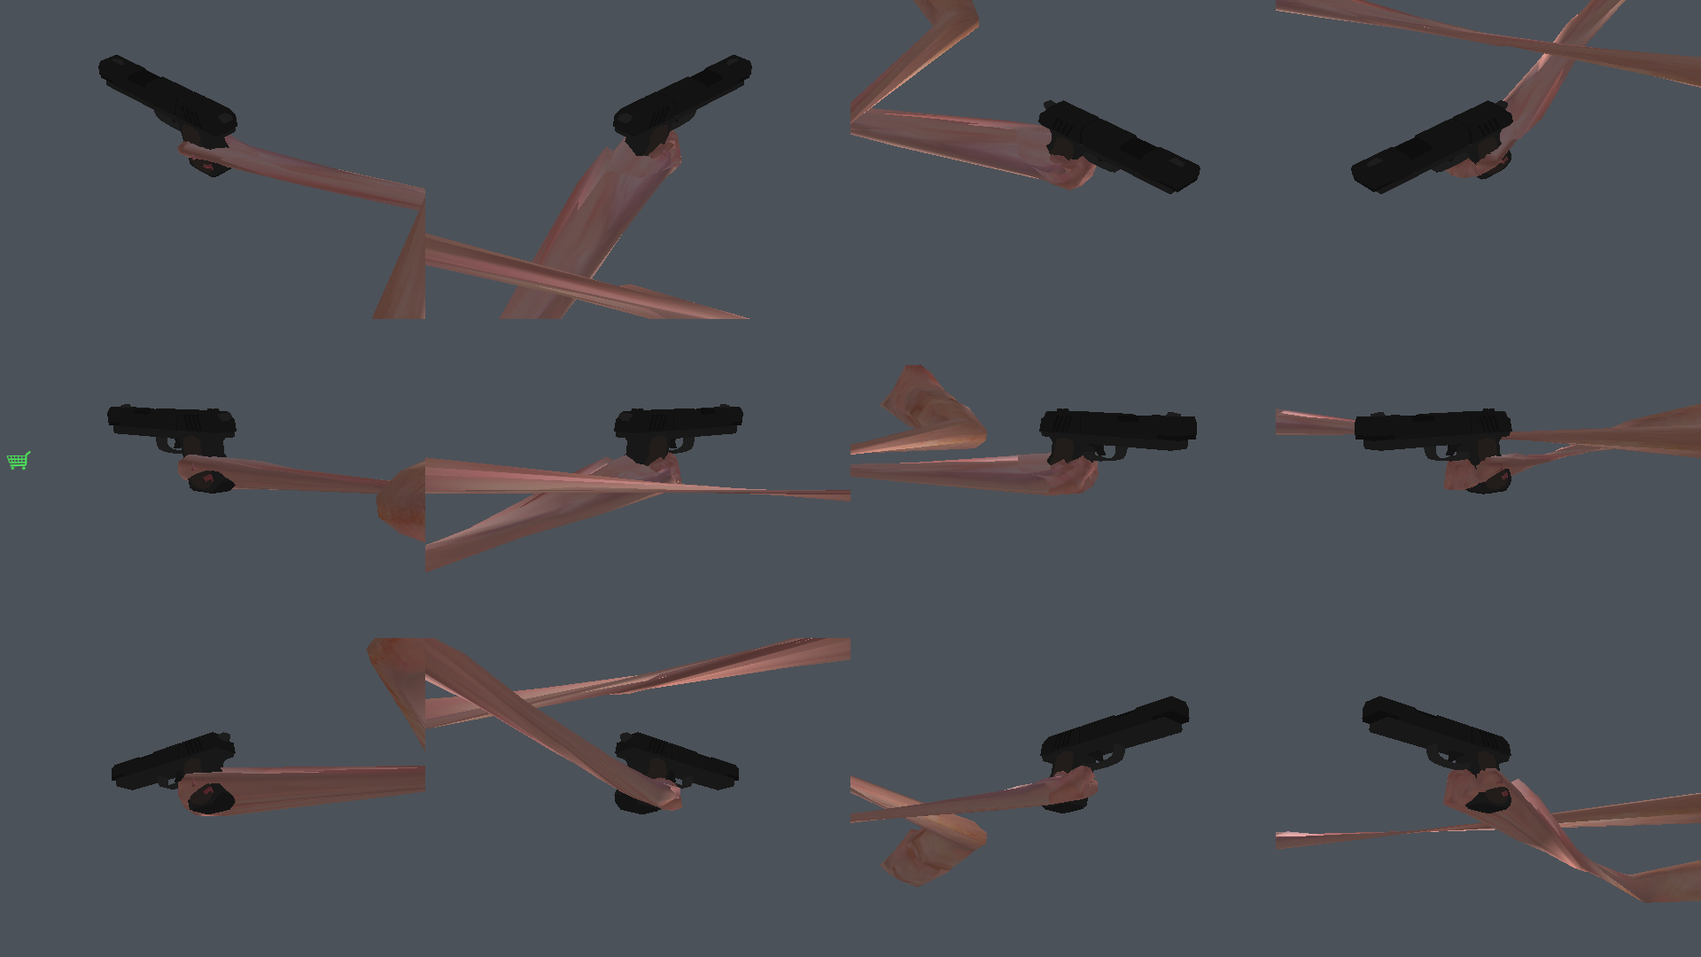
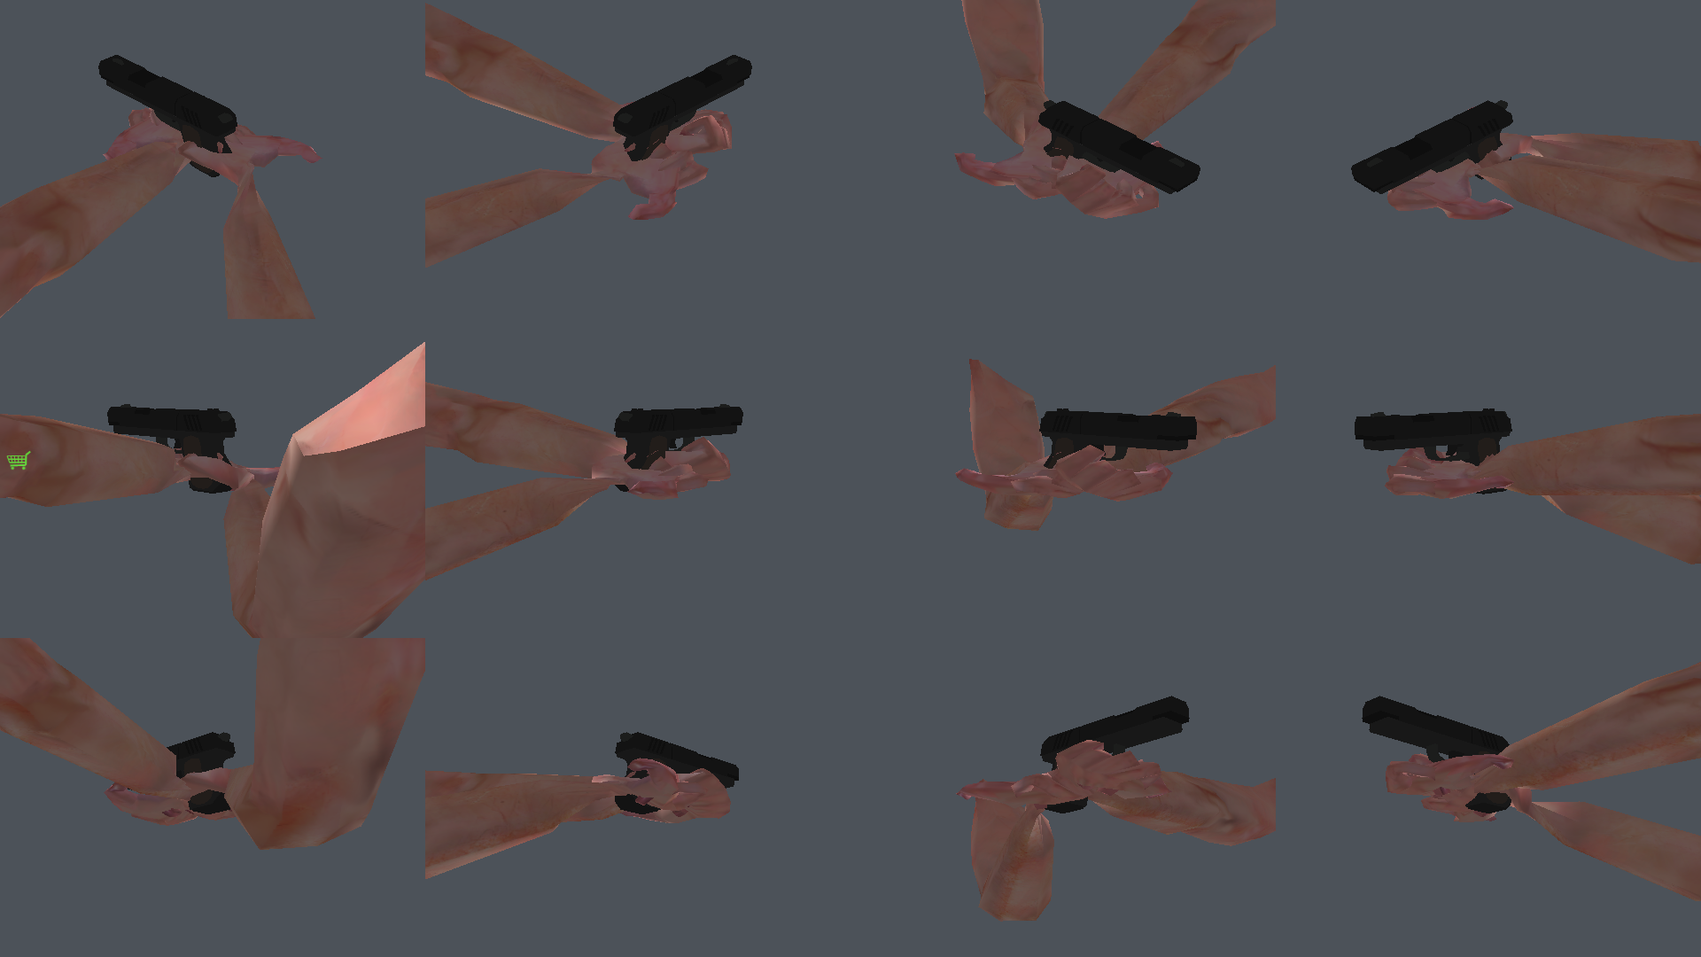
vr_hands: put the wrist bone in the right space (forearm no longer stretched)
Reported from the headset: "the shoulder and the start of the arm are great,
but at the forearm it got stretched and gigantic, so the hand ended up way out
there."

The SKELETON was correct — every bone kept its rest length and every fit number
was right. The MESH was landing ~26 u (66 cm) past the wrist, because two values
in the hand chain were ABSOLUTE rig coordinates where displacements were
expected. Same mistake, twice:

- the wrist's world matrix was `inv(forearm) . P_hand . rest_world[wrist]`, with
  the rest matrix' translation included. Rig rest positions are absolute body
  coordinates (the wrist sits ~6 u from the rig origin) and the skin is
  `cur_world . ibm`, so that translation does NOT cancel. Fixed by using the
  ROTATION ONLY of the rest matrix, which makes the wrist skin exactly
  `T(wrist) . S(s) . Rw . T(-p_rest)`: rotate the hand about its own wrist, and
  put the wrist where the IK put it.
- `palm_ctr` was stored as an absolute rig point (`wrist + fwd*0.55d`) but feeds
  the hand frame, whose ORIGIN is the wrist — so the ~6 u were added again, this
  time to the weapon, which floated ~27 u away from the hand. Now stored
  relative to the wrist.

What made this findable was refusing to judge by eye. The report now prints, for
every sheet:
  mao:   skinned wrist vs IK target, and mesh palm centre vs hand frame (0.00)
  braco: target vs reach and elbow bend (separates "arm at full stretch because
         the target is far" from "the chain is wrong")
[…]

diff --git a/mods/vr/vr_hands.cpp b/mods/vr/vr_hands.cpp
@@ -595,7 +595,8 @@ static void cfg_defaults( void )
 	cfg.recoil_deg = 7.0f; cfg.recoil_kick = 0.9f; cfg.recoil_interval = 0.09f;
 	cfg.enforce_armed = true;   // com a arma no coldre/chao, o gatilho nao atira
 	cfg.synth_grip = 1.0f;
-	cfg.synth_dist = 24.0f; cfg.synth_side = 5.5f; cfg.synth_down = 9.0f;
+	cfg.synth_dist = 16.0f;      // dentro do alcance (~22 un): alvo fora do alcance deixa o braco reto
+	cfg.synth_side = 5.5f; cfg.synth_down = 9.0f;
 	cfg.near_clip = 4.0f;        // igual ao ref (gl_rmain.c: zNear = 4.0f)
 	cfg.far_clip = 7086.0f;      // ~ movevars.zmax * 1.73 (idem)
 	cfg.color_gamma = 2.2f;
@@ -817,7 +818,12 @@ static void palm_from_rest( hmesh_t *m )
 		{
 			m->palm_fwd[h][c] = fwd[c];
 			m->palm_up[h][c]  = -nrm[c];                     // costas da mao
-			m->palm_ctr[h][c] = wrist[c] + fwd[c] * ( 0.55f * d );
+			// CENTRO DA PALMA **relativo ao punho**. Guardar a posicao ABSOLUTA do rig
+			// (`wrist + fwd*0.55d`, ~6 un. do centro do corpo) parecia inofensivo, mas o
+			// referencial da mao tem ORIGEM no punho: com um ponto absoluto ali, a arma
+			// ganhava ~27 un. de deslocamento e saia da mao. Mesma familia do bug do
+			// rest_world na munheca — coordenada absoluta onde se esperava deslocamento.
+			m->palm_ctr[h][c] = fwd[c] * ( 0.55f * d );
 		}
 		v3_cross( m->palm_left[h], m->palm_up[h], m->palm_fwd[h] );
 		m->palm_off[h] = 0.55f * d;
@@ -1273,6 +1279,12 @@ typedef struct
 	float grip_world[3];       // ponto de empunhadura no mundo (diagnostico)
 	float aim[3];
 	float fit_dist;
+	float wrist_ik[2][3];      // onde o IK pos o punho (unidades GoldSrc, mundo)
+	float wrist_slip[2];       // distancia da malha do punho ate o alvo do IK (0 = certo)
+	float palm_slip[2];        // distancia do centro da palma da MALHA ate o referencial (0 = arma na mao)
+	float arm_target[2];       // distancia ombro->alvo, CRUA (antes do clamp)
+	float arm_reach[2];        // alcance da cadeia (biceps+antebraco) no repouso
+	float elbow_deg[2];        // quanto o cotovelo dobra: 0 = esticado, 90+ = dobrado
 	float focus[3];            // onde a folha de contato deve enquadrar
 } hscene_t;
 
@@ -1434,6 +1446,27 @@ static void weapon_step( const vr_hands_body_t *body, const vr_hands_in_t *in,
 }
 
 // ------------------------------------------------------------ frames -------
+// Pose da mao SINTETICA (diagnostico sem headset). Existe uma SO copia de proposito:
+// o `frame_build` (desenho) e o `vr_hands_update` (estado/mira) precisam da MESMA pose,
+// senao a folha de contato passa a mostrar uma coisa e a mira a apontar para outra.
+//
+// As duas maos ficam DENTRO do alcance do braco (~22 un). Alvo fora do alcance obriga a
+// cadeia a ficar reta, e braco reto visto de perto parece "esticado" na folha: o defeito
+// seria do alvo, nao da IK (o relato `braco:` imprime alvo/alcance/cotovelo para separar
+// os dois casos). A mao esquerda sai menos para o lado porque o ombro esquerdo ja esta a
+// ~8 un dali — com o mesmo deslocamento da direita ela cairia fora do alcance.
+static void synth_hand_fill( const vr_hands_body_t *body, vr_hands_hand_t *H, int h )
+{
+	const float fw = cfg.synth_dist, sd = ( h == 1 ? cfg.synth_side : cfg.synth_side * 0.40f );
+	const float dn = cfg.synth_down;
+	for( int c = 0; c < 3; c++ )
+		H->pos[c] = body->pos[c] + body->fwd[c]*fw + body->rgt[c]*sd - body->up[c]*dn;
+	memcpy( H->fwd, body->fwd, sizeof( H->fwd ));
+	memcpy( H->rgt, body->rgt, sizeof( H->rgt ));
+	memcpy( H->up,  body->up,  sizeof( H->up  ));
+	H->ok = true;
+}
+
 // Constroi a cena: rig ancorado no corpo, IK dos dois bracos, referencia da mao,
 // arma (na mao/coldre/chao), dedos e skin. `force_state` < 0 = usa o estado real
 // (a folha de contato passa valores fixos); `force_grip` < 0 = usa o grip de entrada.
@@ -1448,17 +1481,7 @@ static void frame_build( hscene_t *s, const vr_hands_body_t *body, const vr_hand
 	{
 		bool real = hands && hands[h].ok && !cfg.synth_hands;
 		if( real ) H[h] = hands[h];
-		else
-		{
-			// duas maos a frente do corpo: prova a IK e o encaixe SEM headset
-			const float fw = cfg.synth_dist, sd = ( h == 1 ? cfg.synth_side : cfg.synth_side * 0.27f ), dn = cfg.synth_down;
-			for( int c = 0; c < 3; c++ )
-				H[h].pos[c] = body->pos[c] + body->fwd[c]*fw + body->rgt[c]*sd - body->up[c]*dn;
-			memcpy( H[h].fwd, body->fwd, sizeof( H[h].fwd ));
-			memcpy( H[h].rgt, body->rgt, sizeof( H[h].rgt ));
-			memcpy( H[h].up,  body->up,  sizeof( H[h].up  ));
-			H[h].ok = true;
-		}
+		else synth_hand_fill( body, &H[h], h );
 		s->hands_ok[h] = H[h].ok;
 	}
 
@@ -1549,6 +1572,8 @@ static void frame_build( hscene_t *s, const vr_hands_body_t *body, const vr_hand
 
 	// ---- 5) IK: a mao de tras primeiro — a de apoio pode mirar a ARMA ----
 	float support_target[3] = { 0.0f, 0.0f, 0.0f };
+	bool ik_ok[2] = { false, false };
+	s->wrist_slip[0] = s->wrist_slip[1] = -1.0f;   // -1 = a IK nao resolveu esta mao
 	for( int pass = 0; pass < 2; pass++ )
 	{
 		int h = pass ? 1 - rear : rear;
@@ -1571,6 +1596,10 @@ static void frame_build( hscene_t *s, const vr_hands_body_t *body, const vr_hand
 		float dist = sqrtf( v3_dot( d, d ));
 		if( dist < 1e-4f ) continue;
 		float n[3] = { d[0]/dist, d[1]/dist, d[2]/dist };
+		// diagnostico: o alvo esta ao alcance? (dist > reach = braco necessariamente
+		// esticado, e ai a culpa e do alvo, nao da cadeia)
+		s->arm_target[h] = dist;
+		s->arm_reach[h] = L1 + L2;
 		float dmax = ( L1 + L2 )*0.999f, dmin = fabsf( L1 - L2 )*1.05f + 1e-3f;
 		if( dist > dmax ) dist = dmax;
 		if( dist < dmin ) dist = dmin;
@@ -1613,6 +1642,13 @@ static void frame_build( hscene_t *s, const vr_hands_body_t *body, const vr_hand
 		float rf[3] = { Ww2[12]-e2[0], Ww2[13]-e2[1], Ww2[14]-e2[2] };
 		float nf[3] = { target[0]-e2[0], target[1]-e2[1], target[2]-e2[2] };
 		v3_norm( rf ); v3_norm( nf );
+		{
+			// angulo do cotovelo: entre o braco (nu) e o antebraco (nf). 0 = esticado
+			float dot2 = v3_dot( nu, nf );
+			if( dot2 > 1.0f ) dot2 = 1.0f;
+			if( dot2 < -1.0f ) dot2 = -1.0f;
+			s->elbow_deg[h] = acosf( dot2 ) * 180.0f / ( float )M_PI;
+		}
 		m4 R2, Wf3;
 		rot_between( R2, rf, nf );
 		translate_matrix( Tp, e2 );
@@ -1632,11 +1668,27 @@ static void frame_build( hscene_t *s, const vr_hands_body_t *body, const vr_hand
 		cur_world( &g_arms, cur, jw, Wwk );
 		float wr[3] = { Wwk[12], Wwk[13], Wwk[14] };
 
-		m4 Ph, ip;
+		// A mao e o UNICO osso cujo mundo e escrito por fora da cadeia (o IK posiciona
+		// o antebraco; o controle decide a rotacao da mao). O mundo que se quer e
+		//   P_mao . R(repouso do punho)  -- a rotacao do repouso SEM a translacao
+		// e nao `P_mao . rest_world[jw]`. A translacao do repouso e a POSICAO do punho
+		// dentro do espaco do rig (~6 unidades, o rig e um corpo inteiro), e como o skin
+		// e `cur_world . ibm` ela NAO cancela: entrava como `wr + s.Rw.p_repouso`, jogando
+		// a malha da mao ~26 u (66 cm) para longe do punho. O skin esticava entre o
+		// antebraco (correto) e a mao (deslocada): "antebraco gigante, mao la longe".
+		// Sem ela, o skin do punho fica exatamente T(wr).S(s).Rw.T(-p_repouso) — roda a
+		// mao em torno do proprio punho e poe o punho onde o IK o pos.
+		m4 Ph, Rho, ip;
 		m4_place( Ph, Rw[h], wr, cfg.scale_arms );
+		memcpy( Rho, g_arms.rest_world[jw], sizeof( m4 ));
+		Rho[12] = Rho[13] = Rho[14] = 0.0f;
 		m4_inv( ip, Wf3 );
 		m4_mul( t1, ip, Ph );
-		m4_mul( cur[jw], t1, g_arms.rest_world[jw] );
+		m4_mul( cur[jw], t1, Rho );
+
+		// onde o IK pos o punho: e contra isto que a malha e conferida no passo 9
+		memcpy( s->wrist_ik[h], wr, sizeof( wr ));
+		ik_ok[h] = true;
 
 		// referencia da mao (para a arma e para a folha): centro da palma
 		float ctr[3];
@@ -1745,6 +1797,32 @@ static void frame_build( hscene_t *s, const vr_hands_body_t *body, const vr_hand
 		m4 w;
 		cur_world( &g_arms, cur, i, w );
 		m4_mul( skin[i], w, g_arms.joint[i].ibm );
+	}
+
+	// METRICA DE ACEITE da cadeia da mao: pega o ponto de REPOUSO do punho, passa pelo
+	// skin e confere se ele caiu onde a IK pos o punho. O skin do punho e
+	// T(punho).S(s).Rw.T(-repouso), entao o ponto de repouso tem de voltar exatamente
+	// em `wrist_ik` — o numero TEM de ser 0.00. Nao e decoracao: foi assim que o bug da
+	// translacao do repouso (malha da mao 26 u longe, antebraco esticado) apareceu.
+	for( int h = 0; h < 2; h++ )
+	{
+		const int jw = g_arms.j_wrist[h];
+		s->palm_slip[h] = -1.0f;
+		if( !ik_ok[h] || jw < 0 ) continue;
+		float p[3] = { g_arms.rest_world[jw][12], g_arms.rest_world[jw][13],
+			g_arms.rest_world[jw][14] }, q[3];
+		m4_xform_point( skin[jw], p, q );
+		float d[3] = { q[0]-s->wrist_ik[h][0], q[1]-s->wrist_ik[h][1], q[2]-s->wrist_ik[h][2] };
+		s->wrist_slip[h] = sqrtf( v3_dot( d, d ));
+
+		// e o CENTRO DA PALMA da malha tem de cair onde esta o referencial da mao (que e
+		// onde a arma ancora a empunhadura). O ponto absoluto do centro da palma no rig e
+		// `palm_ctr` (relativo ao punho) + a posicao de repouso do punho.
+		float pa[3] = { g_arms.palm_ctr[h][0] + p[0], g_arms.palm_ctr[h][1] + p[1],
+			g_arms.palm_ctr[h][2] + p[2] };
+		m4_xform_point( skin[jw], pa, q );
+		float e[3] = { q[0]-s->palm_pos[h][0], q[1]-s->palm_pos[h][1], q[2]-s->palm_pos[h][2] };
+		s->palm_slip[h] = sqrtf( v3_dot( e, e ));
 	}
 
 	free( s->cur ); free( s->skin );
@@ -1892,16 +1970,7 @@ void vr_hands_update( const vr_hands_body_t *body, const vr_hands_in_t *in,
 			H[h] = hands[h];
 			if( cfg.synth_hands ) H[h].ok = false;
 		}
-		else
-		{
-			const float fw = cfg.synth_dist, sd = ( h == 1 ? cfg.synth_side : cfg.synth_side * 0.27f ), dn = cfg.synth_down;
-			for( int c = 0; c < 3; c++ )
-				H[h].pos[c] = body->pos[c] + body->fwd[c]*fw + body->rgt[c]*sd - body->up[c]*dn;
-			memcpy( H[h].fwd, body->fwd, sizeof( H[h].fwd ));
-			memcpy( H[h].rgt, body->rgt, sizeof( H[h].rgt ));
-			memcpy( H[h].up,  body->up,  sizeof( H[h].up  ));
-			H[h].ok = true;
-		}
+		else synth_hand_fill( body, &H[h], h );
 	}
 
 	// estado da arma (na mao / coldre / chao) e so DEPOIS a pose: a maquina usa as
@@ -2304,6 +2373,15 @@ void vr_hands_sheet( const vr_hands_cam_t *cam )
 				( double )( acosf( dot ) * 180.0f / ( float )M_PI ),
 				( double )one.fit_dist, ( double )( g_weapon.len[0] * g_weapon_scale ),
 				( double )( g_weapon.len[0] * g_weapon_scale * 2.54f ));
+			// aceite da cadeia da mao: a malha tem de cair ONDE a matematica a pos
+			vlog( "maos: mao: punho desliza %.2f/%.2f un | centro da palma %.2f/%.2f un (esq/dir) — 0.00 = malha e referenciais concordam\n",
+				( double )one.wrist_slip[0], ( double )one.wrist_slip[1],
+				( double )one.palm_slip[0], ( double )one.palm_slip[1] );
+			// o alvo esta ao alcance? (cotovelo 0 = esticado; culpa do alvo, nao da cadeia)
+			vlog( "maos: braco: alvo a %.1f/%.1f un do ombro | alcance %.1f/%.1f un | cotovelo dobrado %.0f/%.0f graus (0 = esticado)\n",
+				( double )one.arm_target[0], ( double )one.arm_target[1],
+				( double )one.arm_reach[0], ( double )one.arm_reach[1],
+				( double )one.elbow_deg[0], ( double )one.elbow_deg[1] );
 			scene_free( &one );
 		}
 

diff --git a/docs/HANDS.md b/docs/HANDS.md
@@ -180,7 +180,7 @@ you can adjust fit, scale, axes and the contact sheet without restarting the gam
 | `recoil_deg` / `recoil_kick` / `recoil_interval` | 7 / 0.9 / 0.09 | visual recoil |
 | `enforce_armed` | 1 | outside the hand, the trigger does not fire |
 | `sheet` | 0 | contact sheet (see below) |
-| `synth_hands` / `synth_grip` / `synth_dist` / `synth_side` / `synth_down` | 0 / 1 / 24 / 5.5 / 9 | diagnostic synthetic hands |
+| `synth_hands` / `synth_grip` / `synth_dist` / `synth_side` / `synth_down` | 0 / 1 / 16 / 5.5 / 9 | diagnostic synthetic hands (16 u keeps the target inside the ~22 u reach) |
 | `near` / `far` / `color_gamma` | 4 / 7086 / 2.2 | match the ref; the MTL's `Kd` is linear |
 
 ## Diagnosis without a headset: the contact sheets
@@ -218,20 +218,28 @@ document.</em></p>
 (bottom). The closing direction is derived, not authored — it comes out correct for both hands and for
 the thumb because the axis is computed from the rig's own rest pose.</em></p>
 
-**Honest caveat about the sheets that show the arms.** In test mode there are no controllers: the
-hands sit at the synthetic positions from the cfg (`synth_dist/side/down`), so the **arms are
-stretched and look wrong** in the `fit`, `states` and `walk` sheets. That is an artifact of the
-fixture, not of the arms — with controllers in hand the IK targets are where your hands actually
-are. Use those sheets for the weapon's fit, size and position; do not judge the arms by them.
+**About the arms in the sheets.** In test mode there are no controllers: the hands sit at the
+synthetic positions from the cfg (`synth_dist/side/down`). Two consequences worth knowing before
+you judge an image:
+
+- the **support (left) hand** is placed across the body, the way a real two-handed grip is, so its
+  arm is close to full extension — and a nearly straight arm, seen from a camera sitting on the
+  hand, reads as a wide foreshortened shape. The `braco:` line reports the numbers (`alvo` vs
+  `alcance`, and the elbow bend), so you can tell "the arm is at full stretch because the target is
+  far" from "the chain is wrong";
+- the fixture values are deliberately chosen **inside** the arm's reach (~22 u). An out-of-reach
+  target forces the arm straight and makes the sheets useless for judging the pose.
+
+They are the right tool for the weapon's fit, size and position — that is what they exist for.
 
 <p align="center">
-  <img src="img/contact-sheet-fit.png" alt="Raw fit sheet: twelve views of the right hand holding the pistol, with the arm geometry stretched toward the synthetic hand position" width="80%">
+  <img src="img/contact-sheet-fit.png" alt="Raw fit sheet: twelve views of the right hand holding the pistol, the support arm extended and foreshortened" width="80%">
 </p>
 
 <p align="center"><em>The raw <code>fit</code> sheet, unedited, so the caveat above is not a claim you
-have to take on faith: the weapon is correctly sized and seated in the hand in all twelve views, while
-the arm geometry running off to the lower left is the synthetic target stretching the IK. This is what
-a regenerated sheet will look like without a headset attached.</em></p>
+have to take on faith. This is exactly what a regenerated sheet looks like with no headset attached:
+the firing hand grips the pistol in all twelve views, and the support arm crosses the frame at full
+extension, as it does in a real two-handed grip.</em></p>
 
 The same drawing prints a **numeric report** in the log — it is what allows deciding without
 looking at the image:
@@ -279,7 +287,16 @@ without an equipped weapon), `VR_AIM_FROM_WEAPON=0`, `VR_BODY_YAW_LAG=0.25`,
 | Fingers | `curl` sheet | close toward the palm, at all 4 levels, **in both hands** |
 | Holster | report + `states` sheet | barrel at **−0.94** from the body vertical (muzzle down) |
 | States | `walk` sheet + log | **8/8** steps: grab (left), 2 hands, release the rear one, store, draw (right) |
+| Mesh follows the pose | report: `mao:` line | wrist mesh vs IK target **0.00/0.00 u**; mesh palm centre vs hand frame **0.00/0.00 u** (see note 11) |
+| Arm is not over-extended | report: `braco:` line | target 23.4/16.9 u against a reach of 21.9 u → support arm extended, firing arm bent 79° |
 | Flat did not regress | game without `VR_HANDS_TEST` | no line from the subsystem in the log; mod loads normally |
+
+The last two rows exist because of a bug that images alone did not pin down: the **wrist bone's
+world matrix** was being built with the *rest position* of the wrist baked into it, which threw the
+hand mesh ~26 u (66 cm) away from where the IK had put the wrist. The bones kept their lengths, so
+no bone-length check would have caught it — only comparing **where the skinned mesh lands** against
+**where the math says it should** does. Those two numbers are now printed on every report and must
+read `0.00`; they are the regression test for the whole class.
 
 ### Still to validate with the headset (your side)
 
@@ -337,3 +354,25 @@ without an equipped weapon), `VR_AIM_FROM_WEAPON=0`, `VR_BODY_YAW_LAG=0.25`,
    replaced by an explicit sheet mode).
 10. **In test mode the `update` did not run**: it was only inside the `VR_FramePre` session
     block, which does not exist without a headset. The contact sheet stayed blank.
+11. **The hand bone's world matrix carried the wrist's REST POSITION.** The wrist is the only
+    bone whose world is written from outside the chain (the IK places the forearm; the
+    controller decides the hand's rotation), and it was computed as
+    `inv(forearm) . P_hand . rest_world[wrist]` — with the *whole* rest matrix, translation
+    included. The rig's rest positions are absolute body coordinates (the wrist sits ~6 units
+    from the rig origin), and the skin is `cur_world . ibm`, so that translation does **not**
+    cancel: it landed the hand mesh at `wrist + 4.2 . Rw . p_rest`, roughly **26 u (66 cm) past
+    the wrist**. The bones still had their correct lengths, so the skeleton looked fine while
+    the skin stretched from the (correct) forearm to the (displaced) hand — reported from the
+    headset as *"the shoulder and upper arm are great, the forearm is stretched and gigantic,
+    and the hand is way out there"*. The fix is to use only the **rotation** of the rest matrix
+    (`rest_world[wrist]` with its translation zeroed), which makes the skin exactly
+    `T(wrist) . S(s) . Rw . T(-p_rest)`: rotate the hand about its own wrist and put the wrist
+    where the IK put it. Two numbers now guard it — see the `mao:` report line.
+12. **The palm centre was stored as an ABSOLUTE rig coordinate.** Same family as 11, one level
+    up: `palm_ctr` was `wrist + fwd * 0.55 d` in rig space, and the hand frame it feeds
+    (`P_hand`, whose origin is the *wrist*) then added those ~6 units again — this time to the
+    **weapon**, which is mounted on that frame. The pistol left the hand and floated ~27 u
+    away, while the hand (fixed by 11) sat correctly on the wrist. It is now stored **relative
+    to the wrist**, which is what the hand frame expects. Both errors were the same mistake:
+    an absolute coordinate where a displacement was expected, in a frame whose origin is not
+    the rig origin.

diff --git a/PLAN.md b/PLAN.md
@@ -296,6 +296,37 @@ Conventions:
     fit and the `walk` script proved **8/8** state-machine transitions without a headset.
   - Doc: `docs/HANDS.md` (includes the 9 bug notes and what is missing on the headset).
   - *Still needs the headset* (your end): the 7 checks listed in `docs/HANDS.md`.
+- [x] 🔴 **6.7b-fix The arm was posed right and the MESH was not (13/10, from the owner's headset
+  report)** — *"the shoulder and the start of the arm are great, but at the forearm it got
+  stretched and gigantic, so the hand ended up way out there."* The forearm mesh was stretched ~26
+  un past the wrist, and **no bone had the wrong length**: the skeleton was correct, the numbers
+  for the fit were correct, and the contact sheets still "looked like an arm" if you did not know
+  what to look for. Two instances of the same mistake, both in the hand chain:
+  - the **wrist bone's world matrix** was built as `inv(forearm) . P_hand . rest_world[wrist]`,
+    with the rest matrix' **translation** included. Rig rest positions are absolute body
+    coordinates (the wrist is ~6 un from the rig origin) and the skin is `cur_world . ibm`, so the
+    translation does **not** cancel: the hand mesh landed at `wrist + scale . Rw . p_rest`. Fix:
+    use the **rotation only** of the rest matrix (translation zeroed), which makes the skin exactly
+    `T(wrist) . S(s) . Rw . T(-p_rest)` — rotate the hand about its own wrist and put the wrist
+    where the IK put it;
+  - the **palm centre was stored as an absolute rig coordinate** (`wrist + fwd*0.55d`), and the hand
+    frame it feeds has its **origin at the wrist**; the ~6 units were added again, this time to the
+    **weapon**, which is mounted on that frame — the pistol left the hand and floated ~27 un away.
+    Fix: store it **relative to the wrist**.
+  - **What made this findable** was refusing to judge by eye: the report now prints, on every
+    sheet, the distance between **where the skinned mesh lands** and **where the math says it
+    should** — `mao: wrist slip 0.00/0.00 un | palm centre 0.00/0.00 un` — plus `braco: target vs
+    reach and elbow bend`, which separates "the arm is at full stretch because the target is far"
+    from "the chain is wrong". Both must read `0.00`; they are the regression test for the class
+    (mesh-in-the-wrong-place with a healthy skeleton), which no bone-length check would catch.
+  - Also fixed: the **synthetic-hand fixture had two copies** (the drawing path and the state path),
+    so they could disagree; now there is one `synth_hand_fill()`. And the fixture placed the support
+    hand **outside the arm's reach**, forcing a straight arm that looks "stretched" in the sheets;
+    `synth_dist` is now 16 un (reach is ~22), i.e. inside it.
+  - Verified: `mao:` and `braco:` at `0.00`, `encaixe` unchanged (barrel 0.0°, grip 0.00 un, 7.48 un
+    = 19.0 cm), `walk` still **8/8**, flat mode untouched, build warning count unchanged. The
+    contact sheets were re-rendered: the arms are now geometry of normal thickness with a bent
+    elbow, and the hand grips the pistol.
 - [ ] 🟢 **6.7c Registered debt (out of this stage)**: **gesture-based reload/grenade pin**,
   wrist roll on the weapon (forearm twist), haptics, sound, buy menu in VR, dropped weapon
   collision and the **remaining weapon classes** (rifle/SMG etc., which stay on the game viewmodel).

diff --git a/README.md b/README.md
@@ -29,9 +29,9 @@ your controllers, with the whole interaction model modern VR games use.
 </p>
 
 <p align="center"><em>Left: the weapon fit, from the Mod's own diagnostic mode — the red/green/blue
-cross is the grip anchor, the white line runs grip&rarr;muzzle. Right: the hand closing, open to
-fist, on the weapon and empty. Both images were rendered by the game through its normal drawing
-path, with no headset attached.</em></p>
+cross is the grip anchor, the white line runs grip&rarr;muzzle. Right: the same hand at four grip
+levels — 0, &#8531;, &#8532;, 1 — closing toward the palm; the two rows are the two hands. Both images
+were rendered by the game through its normal drawing path, with no headset attached.</em></p>
 
 - **Your hands are the game's hands.** Two-bone IK per arm to your controllers, and the 30
   finger bones are driven by a flexion axis *derived from the rig's own rest pose* — so the
